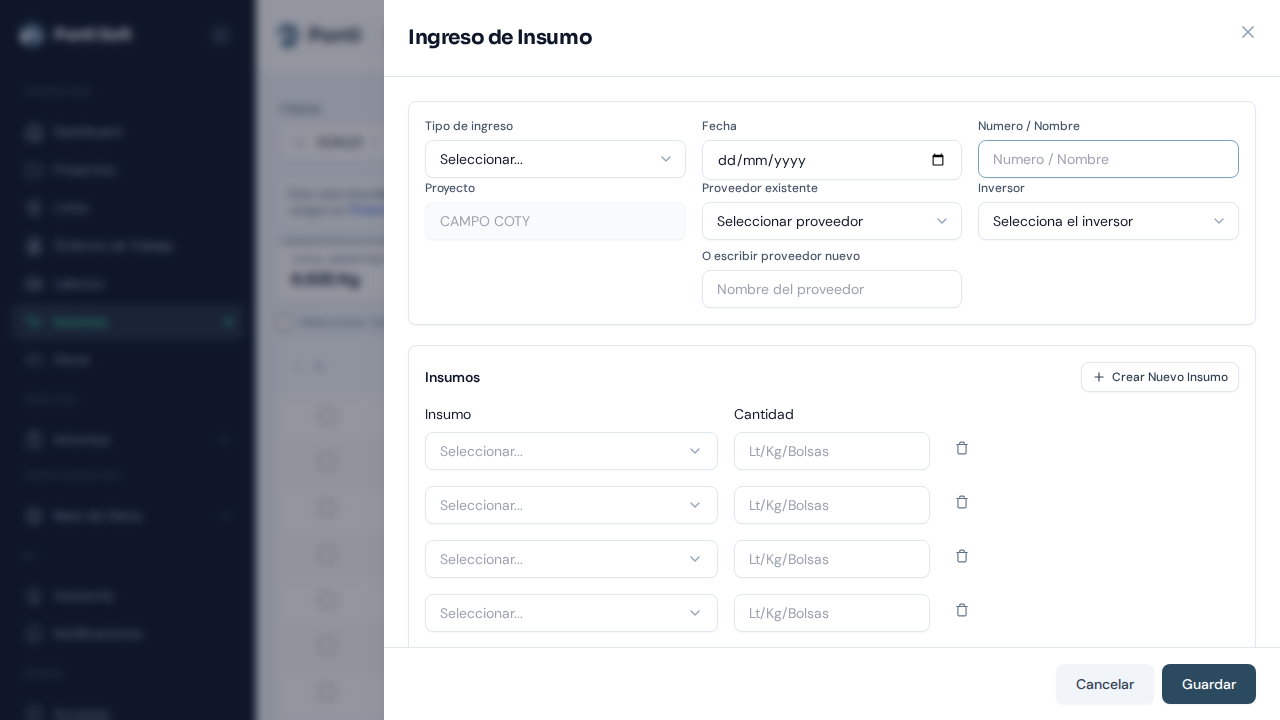
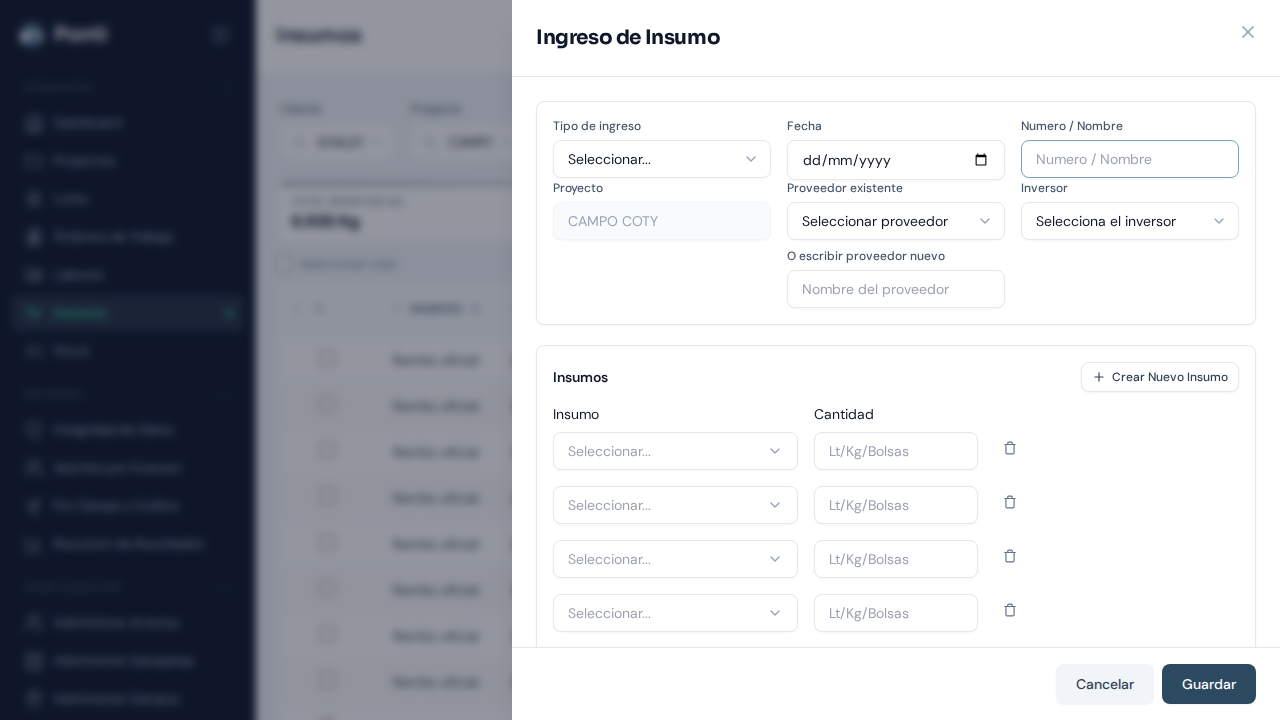
feat(fe): Fase 4 — CustomerEditor responsive ramp + e2e safety net
CustomerEditor (1642 LoC) was already mobile-first in most grids. Two
targeted improvements + a safety-net spec; structural extraction
(sections-to-files) is deferred to a dedicated refactor session.

- CustomerEditor identity grid: `md:grid-cols-5` had an abrupt jump
  from 1col (≤md) to 5cols (≥md=768) — 5 inputs at 768 ≈ 140px each
  is cramped. Now `sm:grid-cols-2 lg:grid-cols-5` for a progressive
  ramp. Tablet vertical (768) shows 2 cols.
- EditableList container `xl:grid-cols-3` → `lg:grid-cols-2 xl:grid-cols-3`.
- customer-editor-responsive.spec.ts (new): smoke-tests the editor at
  375x667 / 768x1024 / 1280x800 — asserts no horizontal scroll and
  key inputs visible at each breakpoint.
- e2e legacy URL fix: 4 specs referenced `/admin/database/projects/list`
  (renamed to `/admin/master-data/projects/list` in commit 37e9437,
  May 20). Those specs had been broken pre-session — fixed as drive-by.
- drawer-audit PNGs: refreshed baseline after Fase 2's responsive
  drawer width changes (`md:max-w-2xl lg:max-w-3xl 2xl:max-w-4xl`).

All 34 customer-editor + drawer-audit specs now pass.

diff --git a/ui/e2e/customer-editor-responsive.spec.ts b/ui/e2e/customer-editor-responsive.spec.ts
@@ -1,0 +1,128 @@
+import { expect, test, type Page } from "@playwright/test";
+
+import { installAuthenticatedSession } from "./helpers/auth";
+
+// Mocks mínimos: el editor depende de múltiples endpoints (customers,
+// actors, projects, campaigns, fields, crops, lots, form-options). Le damos
+// respuestas vacías o de un solo item para que renderice sin errores.
+async function mockEditorApis(page: Page) {
+  const json = (body: unknown) => ({
+    status: 200,
+    contentType: "application/json",
+    body: JSON.stringify(body),
+  });
+
+  await page.route("**/api/v1/customers?**", async (route) => {
+    await route.fulfill(
+      json({ success: true, data: { data: [], total: 0 } })
+    );
+  });
+  await page.route("**/api/v1/actors?**", async (route) => {
+    await route.fulfill(
+      json({ success: true, data: { data: [], total: 0 } })
+    );
+  });
+  await page.route("**/api/v1/projects/customers/**", async (route) => {
+    await route.fulfill(json({ success: true, data: { data: [] } }));
+  });
+  await page.route("**/api/v1/projects?**", async (route) => {
+    await route.fulfill(
+      json({ success: true, data: { data: [], total: 0 } })
+    );
+  });
+  await page.route("**/api/v1/campaigns**", async (route) => {
+    await route.fulfill(
+      json({ success: true, data: { data: [], total: 0 } })
+    );
+  });
+  await page.route("**/api/v1/fields**", async (route) => {
+    await route.fulfill(
+      json({ success: true, data: { data: [], total: 0 } })
+    );
+  });
+  await page.route("**/api/v1/crops**", async (route) => {
+    await route.fulfill(json({ success: true, data: [] }));
+  });
+  await page.route("**/api/v1/lots**", async (route) => {
+    await route.fulfill(
+      json({ success: true, data: { data: [], page_info: {} } })
+    );
+  });
+  await page.route("**/api/v1/form-options**", async (route) => {
+    await route.fulfill(
+      json({ success: true, data: { lease_types: [] } })
+    );
+  });
+}
+
+async function openEditor(page: Page) {
+  await page.goto("/admin/master-data/customers/editor");
+  // El header "Proyecto" indica que el editor terminó de cargar el bloque
+  // de identidad. No verificamos cliente-only porque el default es project mode.
+  await expect(
+    page.getByRole("heading", { name: "Proyecto" }).first()
+  ).toBeVisible({ timeout: 15_000 });
+}
+
+/**
+ * Asserta que el elemento no provoca scroll horizontal en el viewport.
+ * Tolerancia de 2px por subpixel rendering.
+ */
+async function expectNoHorizontalScroll(page: Page) {
+  const overflow = await page.evaluate(() => {
+    const doc = document.documentElement;
+    return {
+      scrollWidth: doc.scrollWidth,
+      clientWidth: doc.clientWidth,
+    };
+  });
+  expect(overflow.scrollWidth - overflow.clientWidth).toBeLessThanOrEqual(2);
+}
+
+test.beforeEach(async ({ page }) => {
+  await installAuthenticatedSession(page);
+});
+
+test.describe("editor de proyecto — responsive", () => {
+  test("mobile (375x667) renderiza sin scroll horizontal y stackea secciones", async ({
+    page,
+  }) => {
+    await page.setViewportSize({ width: 375, height: 667 });
+    await mockEditorApis(page);
+    await openEditor(page);
+
+    // Sin scroll horizontal: si lo hay, algún elemento se desbordó del viewport.
+    await expectNoHorizontalScroll(page);
+
+    // Las 3 secciones principales del editor deben renderizar y ser visibles.
+    await expect(
+      page.getByRole("heading", { name: "Proyecto" }).first()
+    ).toBeVisible();
+    await expect(
+      page.getByRole("heading", { name: "Campos" }).first()
+    ).toBeVisible();
+
+    // Los inputs principales no quedan ocultos por overflow.
+    await expect(page.getByLabel(/Cliente \/ Sociedad/)).toBeVisible();
+    await expect(page.getByLabel(/Nombre del proyecto/)).toBeVisible();
+  });
+
+  test("desktop (1280x800) renderiza sin overflow", async ({ page }) => {
+    await page.setViewportSize({ width: 1280, height: 800 });
+    await mockEditorApis(page);
+    await openEditor(page);
+
+    await expectNoHorizontalScroll(page);
+    await expect(page.getByLabel(/Cliente \/ Sociedad/)).toBeVisible();
+    await expect(page.getByLabel(/Nombre del proyecto/)).toBeVisible();
+  });
+
+  test("tablet vertical (768x1024) renderiza sin overflow", async ({ page }) => {
+    await page.setViewportSize({ width: 768, height: 1024 });
+    await mockEditorApis(page);
+    await openEditor(page);
+
+    await expectNoHorizontalScroll(page);
+    await expect(page.getByLabel(/Cliente \/ Sociedad/)).toBeVisible();
+  });
+});

diff --git a/ui/src/pages/admin/master-data/customers/CustomerEditor.tsx b/ui/src/pages/admin/master-data/customers/CustomerEditor.tsx
@@ -1214,7 +1214,7 @@ export default function CustomerEditor({
             <div className="drawer-section-header">
               <h2 className="drawer-section-title">{customerOnly ? "Cliente" : "Proyecto"}</h2>
             </div>
-            <div className={`grid grid-cols-1 gap-2.5 ${customerOnly ? "max-w-xl" : "md:grid-cols-5"}`}>
+            <div className={`grid grid-cols-1 gap-2.5 ${customerOnly ? "max-w-xl" : "sm:grid-cols-2 lg:grid-cols-5"}`}>
               <SmartEntityInput<ActorOption>
                 label="Cliente / Sociedad"
                 name="project_customer"
@@ -1274,7 +1274,7 @@ export default function CustomerEditor({
 
           {!customerOnly && (
             <>
-          <section className="grid grid-cols-1 gap-2 xl:grid-cols-3">
+          <section className="grid grid-cols-1 gap-2 lg:grid-cols-2 xl:grid-cols-3">
             <EditableList
               title="Responsables"
               emptyLabel="Sin responsables"

diff --git a/ui/e2e/drawer-audit.spec.ts b/ui/e2e/drawer-audit.spec.ts
@@ -108,7 +108,7 @@ const scenarios: DrawerScenario[] = [
   },
   {
     id: "customers-new",
-    route: "/admin/database/projects/list",
+    route: "/admin/master-data/projects/list",
     title: "Nuevo Proyecto",
     open: async (page) => {
       await page.getByRole("button", { name: "Nuevo", exact: true }).click();
@@ -116,7 +116,7 @@ const scenarios: DrawerScenario[] = [
   },
   {
     id: "customers-archived",
-    route: "/admin/database/projects/list",
+    route: "/admin/master-data/projects/list",
     title: "Proyectos archivados",
     open: async (page) => {
       await page.getByRole("button", { name: "Archivados" }).click();

diff --git a/ui/e2e/customer-editor-smart-entity.spec.ts b/ui/e2e/customer-editor-smart-entity.spec.ts
@@ -105,7 +105,7 @@ async function mockCustomerEditorApis(page: Page, options: { failActors?: boolea
 }
 
 async function openNewCustomerDrawer(page: Page) {
-  await page.goto("/admin/database/projects/list");
+  await page.goto("/admin/master-data/projects/list");
   await page.getByRole("button", { name: "Nuevo", exact: true }).click();
   await expect(page.getByRole("heading", { name: "Nuevo Proyecto" })).toBeVisible();
 }

diff --git a/ui/e2e/customer-editor-identity.spec.ts b/ui/e2e/customer-editor-identity.spec.ts
@@ -178,7 +178,7 @@ async function mockEditorApis(page: Page, capture: SaveCapture) {
 }
 
 async function openNewProjectDrawer(page: Page) {
-  await page.goto("/admin/database/projects/list");
+  await page.goto("/admin/master-data/projects/list");
   await page.getByRole("button", { name: "Nuevo", exact: true }).click();
   await expect(page.getByRole("heading", { name: "Nuevo Proyecto" })).toBeVisible();
 }

diff --git a/ui/e2e/customer-editor-canonical.spec.ts b/ui/e2e/customer-editor-canonical.spec.ts
@@ -100,7 +100,7 @@ async function mockEditorApis(page: Page) {
 }
 
 async function openNewProjectDrawer(page: Page) {
-  await page.goto("/admin/database/projects/list");
+  await page.goto("/admin/master-data/projects/list");
   await page.getByRole("button", { name: "Nuevo", exact: true }).click();
   await expect(page.getByRole("heading", { name: "Nuevo Proyecto" })).toBeVisible();
 }
